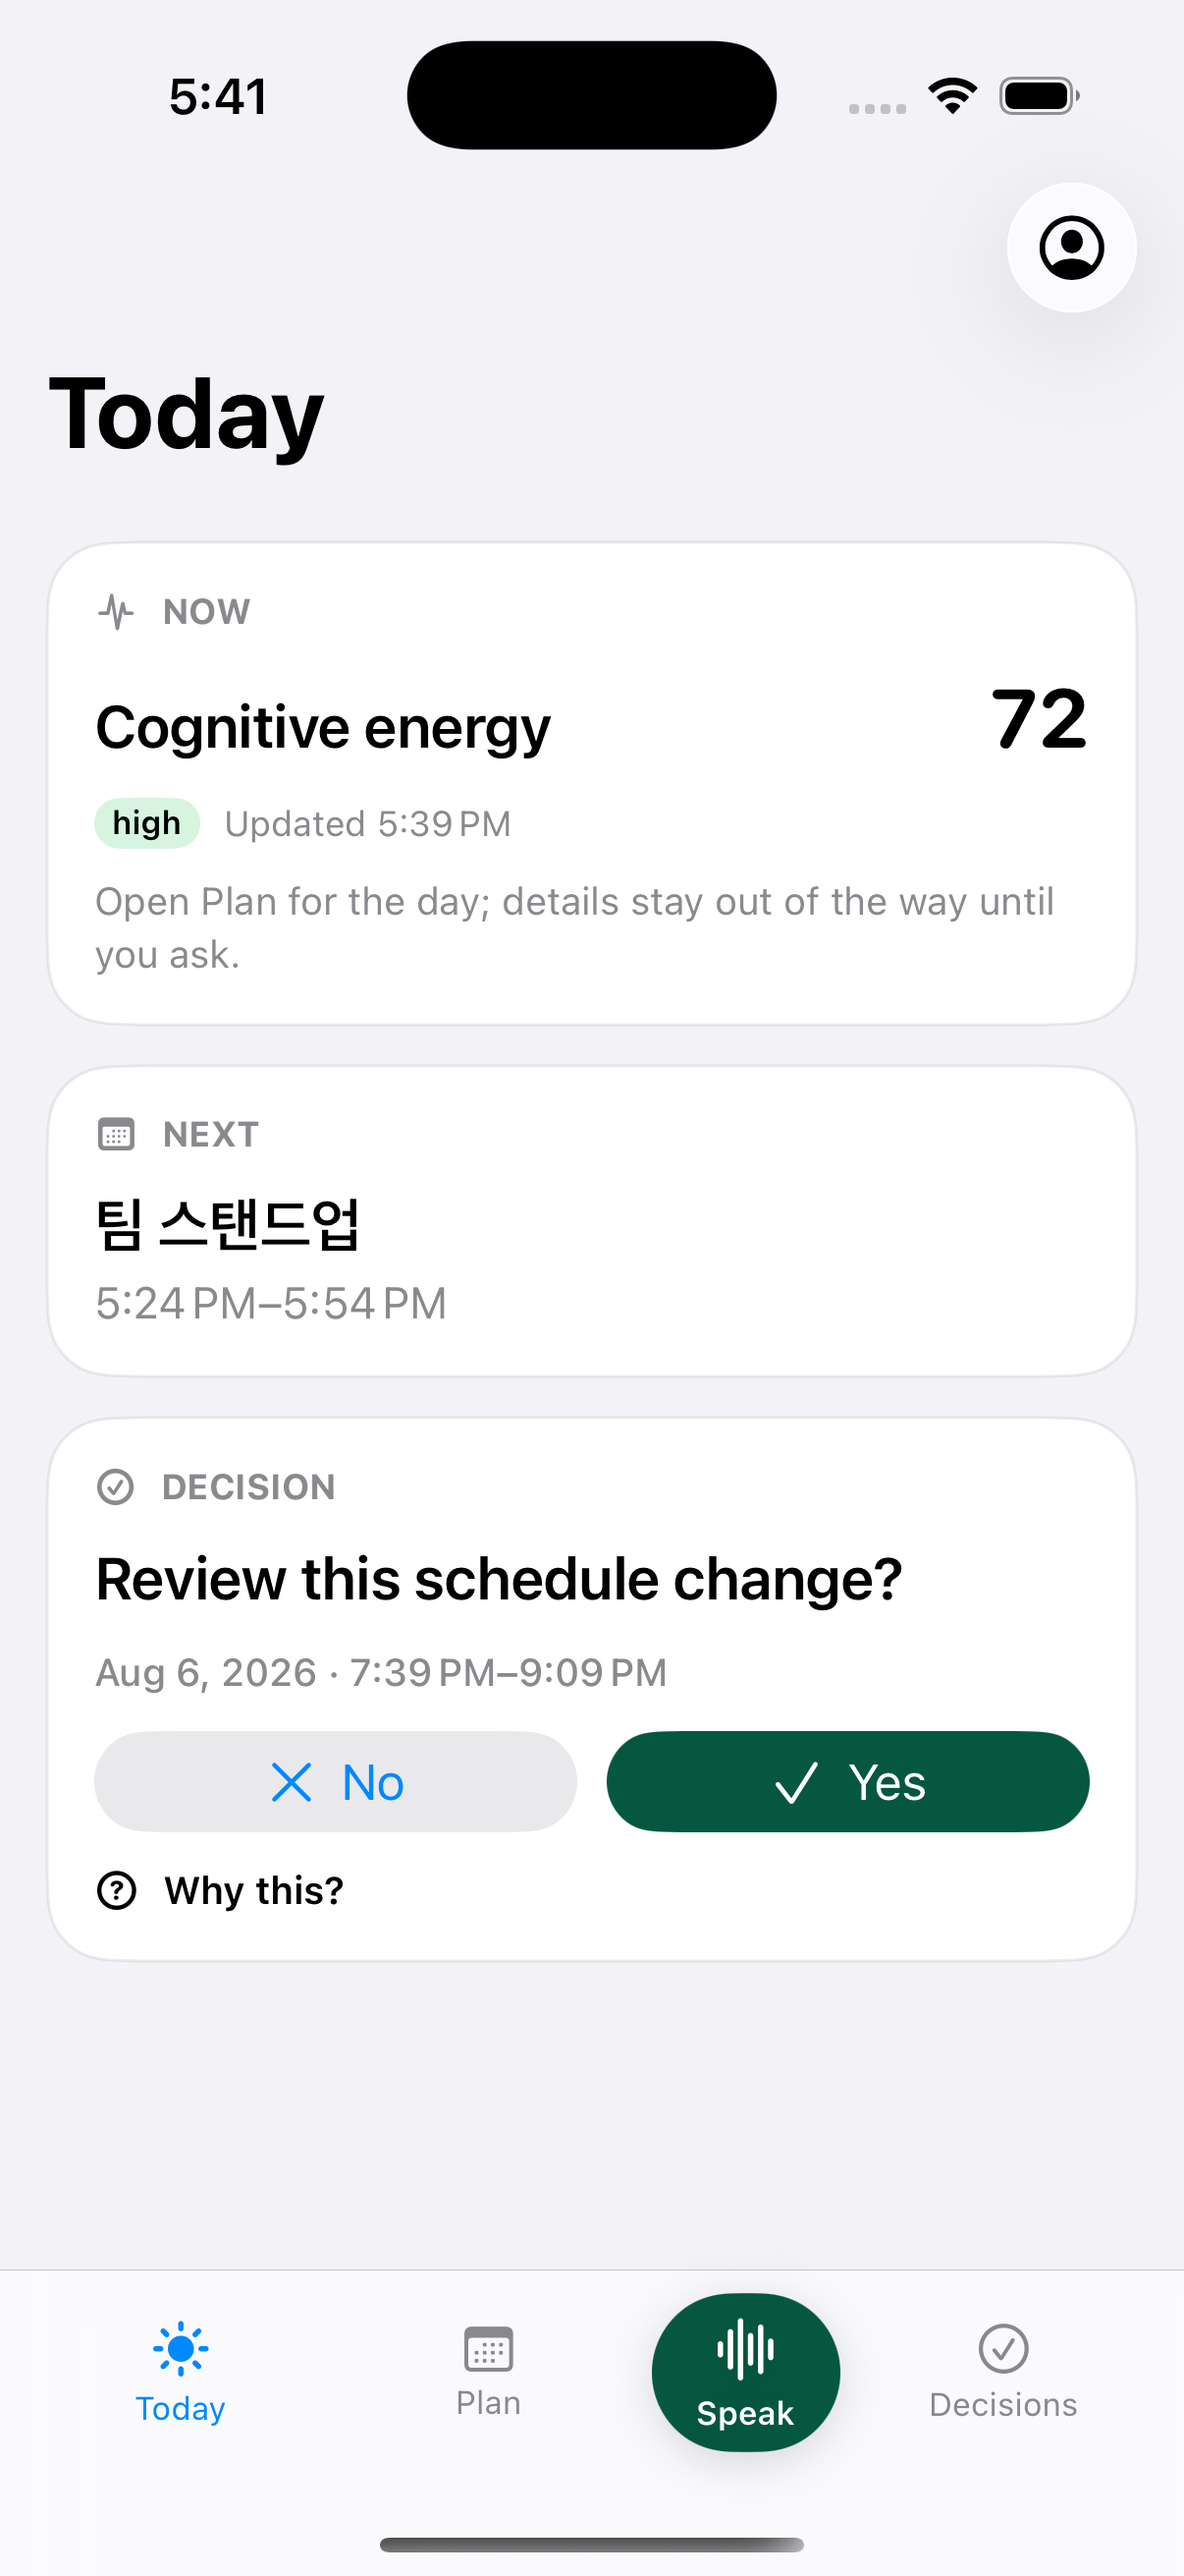
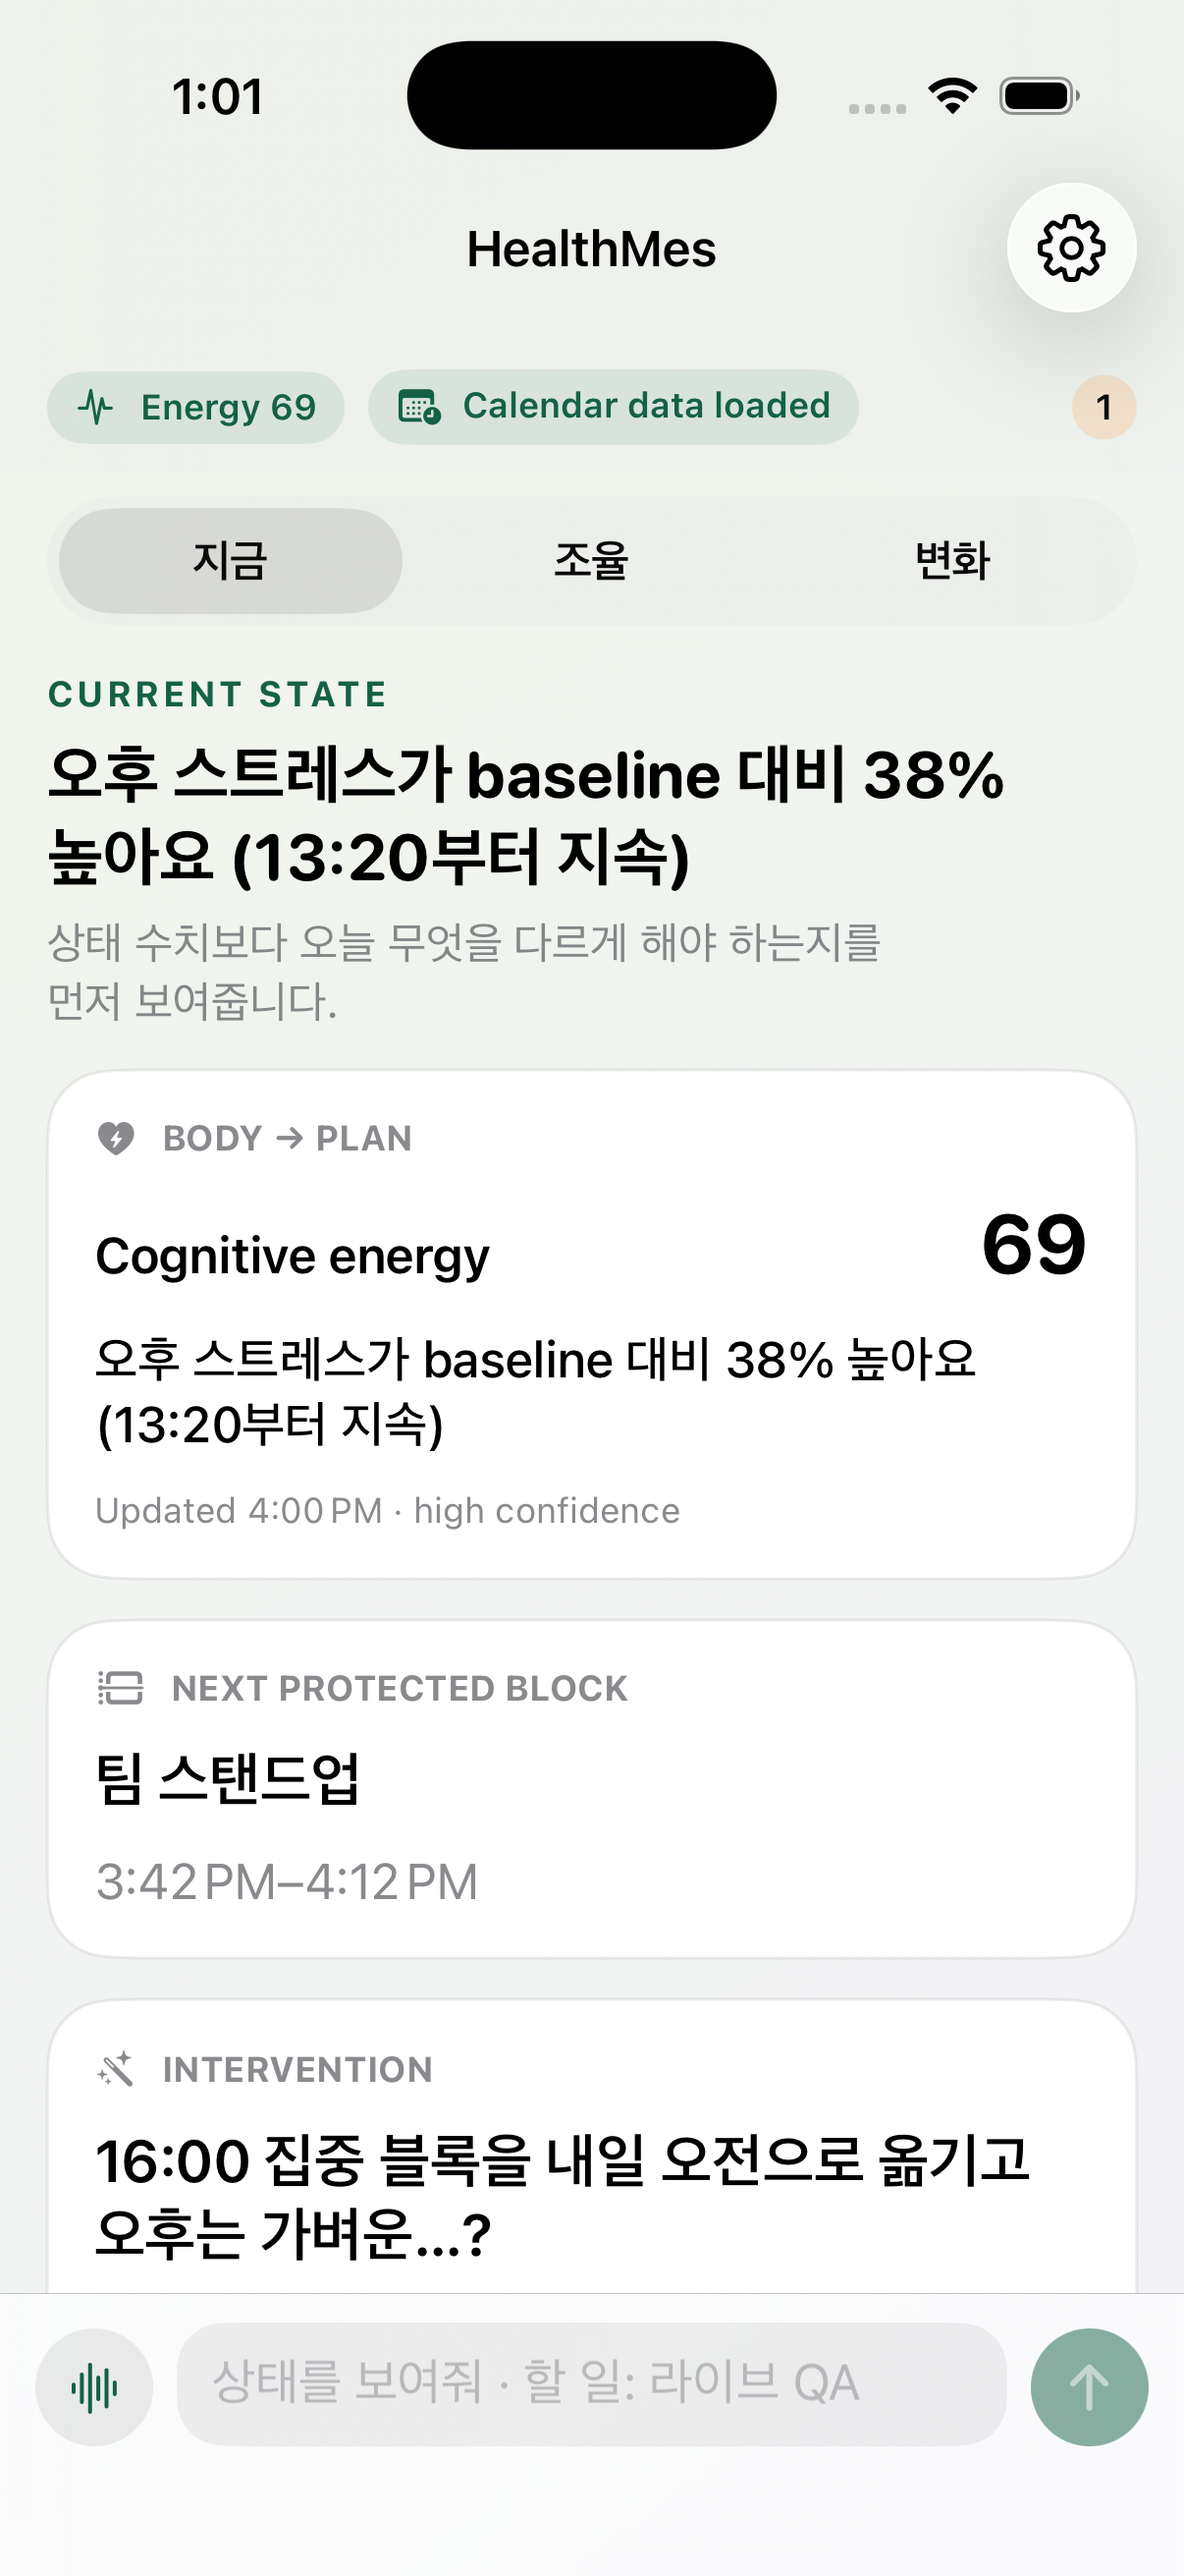
test(ui): record cross-platform live QA evidence (#113)

diff --git a/apps/ios-companion/UITests/CompanionUITests.swift b/apps/ios-companion/UITests/CompanionUITests.swift
@@ -1,8 +1,8 @@
 import XCTest
 
 // End-to-end UI tests for the issue-#10 daily loop, driven against a REAL
-// paired healthmes instance (see README "Live smoke test"): briefing home
-// renders live glance/alerts data, tab navigation works, and the §8.5
+// paired healthmes instance (see README "Live smoke test"): the fixed wellness
+// canvas renders live data, same-canvas lenses work, and the §8.5
 // Yes button drives the real accept endpoint.
 //
 // These tests SKIP (never fail) when the app is not paired or the instance
@@ -46,19 +46,20 @@ final class CompanionUITests: XCTestCase {
     func testDailyLoopSurfacesRenderAgainstLiveInstance() throws {
         let app = try launchPairedApp()
 
-        XCTAssertTrue(app.staticTexts["NOW"].waitForExistence(timeout: 10))
-        XCTAssertTrue(app.staticTexts["NEXT"].exists)
-        XCTAssertTrue(app.staticTexts["DECISION"].exists)
+        XCTAssertTrue(app.staticTexts["CURRENT STATE"].waitForExistence(timeout: 10))
+        XCTAssertTrue(app.staticTexts["BODY → PLAN"].exists)
+        XCTAssertTrue(app.textFields.firstMatch.exists)
 
-        app.buttons["Plan"].tap()
-        XCTAssertTrue(app.staticTexts["THIS WEEK"].waitForExistence(timeout: 15))
-        XCTAssertTrue(app.staticTexts["SCHEDULE"].exists)
-        XCTAssertTrue(app.staticTexts["OPEN TASKS"].exists)
+        app.buttons["조율"].tap()
+        XCTAssertTrue(app.staticTexts["BODY-AWARE COORDINATION"].waitForExistence(timeout: 15))
+        XCTAssertTrue(app.staticTexts["PROTECTED CONSTRAINTS"].exists)
+        XCTAssertTrue(app.staticTexts["SCHEDULE IMPACT"].exists)
 
-        app.buttons["Decisions"].tap()
-        XCTAssertTrue(app.staticTexts["HISTORY"].waitForExistence(timeout: 15))
+        app.buttons["변화"].tap()
+        XCTAssertTrue(app.staticTexts["OUTCOME LEARNING"].waitForExistence(timeout: 15))
+        XCTAssertTrue(app.staticTexts["OUTCOME LOOP"].exists)
 
-        app.buttons["Profile"].tap()
+        app.buttons["Settings"].tap()
         try tapSettingsLink("Weekly report", in: app)
         XCTAssertTrue(app.staticTexts["Energy trend"].waitForExistence(timeout: 15))
         XCTAssertTrue(app.staticTexts["Schedule adherence"].exists)
@@ -87,9 +88,9 @@ final class CompanionUITests: XCTestCase {
     func testFoodCaptureRoundTrip() throws {
         let app = try launchPairedApp()
 
-        app.buttons["Profile"].tap()
+        app.buttons["Settings"].tap()
         try tapSettingsLink("Capture", in: app)
-        let field = app.textFields.firstMatch
+        let field = app.textFields["Description"]
         guard field.waitForExistence(timeout: 10) else {
             throw XCTSkip("Capture form not reachable.")
         }
